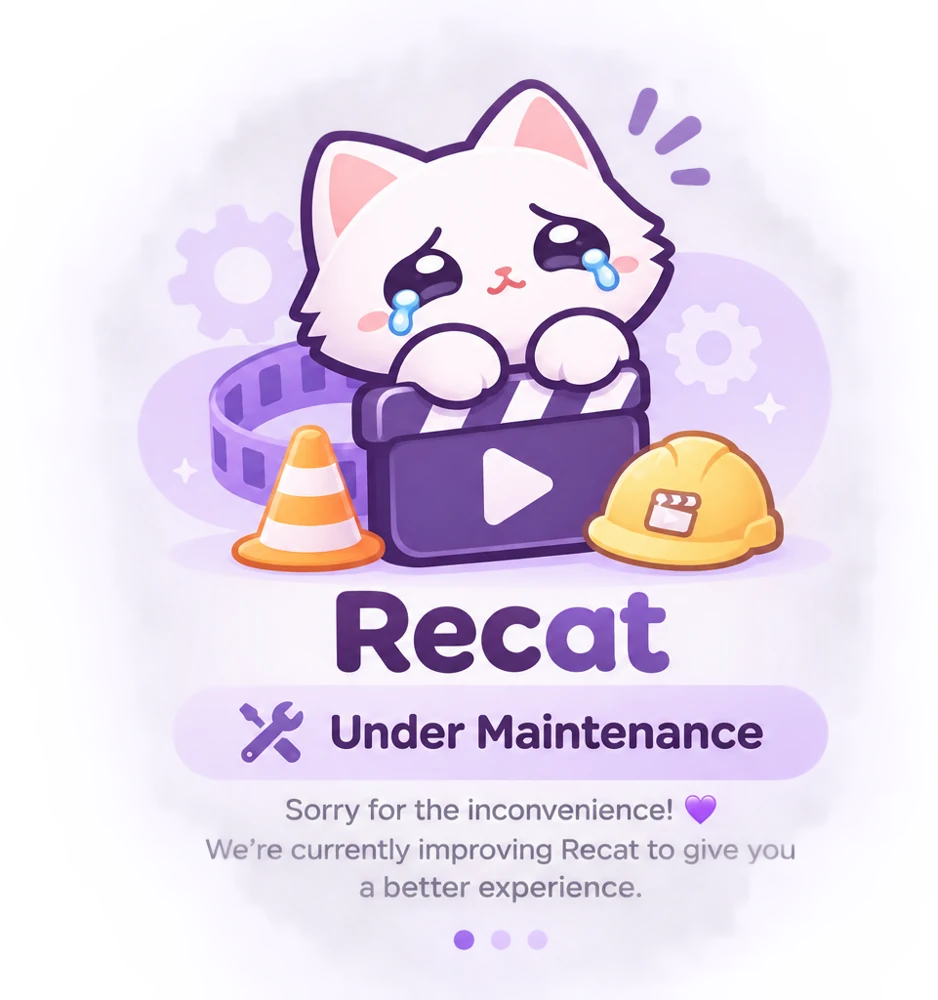
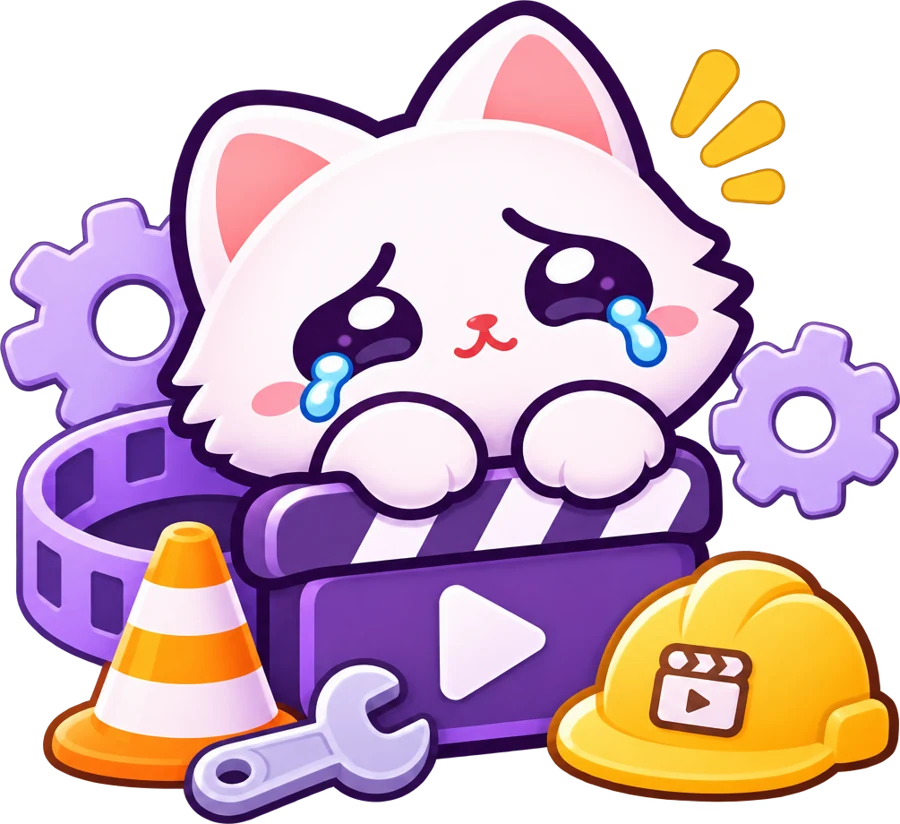
Maintenance card: chibi cat under-construction sticker with translated text

diff --git a/frontend/src/App.jsx b/frontend/src/App.jsx
@@ -730,10 +730,11 @@ function App() {
           onSelect={(v) => { setVoiceType(v.name); setVoiceGender(v.gender); }} onClose={() => setShowLibrary(false)} apiBase={API_BASE} />
       )}
       {view === 'create' && maintenance && (
-        <div className="max-w-3xl mx-auto rounded-[2rem] border border-white bg-white p-4 sm:p-8 text-center shadow-card animate-rise">
-          {/* the owner's picture (docs/Recat Under Maintenance.png, cropped): it already says "Recat · Under Maintenance" */}
-          <img src="/recat-maintenance.webp" alt={tr('Under Maintenance')} draggable={false} className="mx-auto w-full max-w-sm select-none animate-floaty" />
-          <p className="mt-2 text-sm sm:text-base font-medium text-ink-soft">{tr('Please try again later.')}</p>
+        <div className="max-w-3xl mx-auto rounded-[2rem] border border-white bg-white p-8 sm:p-12 text-center shadow-card animate-rise">
+          {/* the owner's sticker (docs/Chibi Cat Under Construction Sticker.png, cropped; no words in it, so ours are translated) */}
+          <img src="/recat-maintenance.webp" alt="" aria-hidden="true" draggable={false} className="mx-auto w-full max-w-[17rem] sm:max-w-xs select-none animate-floaty" />
+          <h1 className="mt-4 text-2xl sm:text-3xl font-bold text-ink">{tr('Under Maintenance')}</h1>
+          <p className="mt-2 text-sm sm:text-base text-ink-soft">{tr('Please try again later.')}</p>
         </div>
       )}
       <div className={view === 'create' && !maintenance ? '' : 'hidden'}>

diff --git a/CLAUDE.md b/CLAUDE.md
@@ -407,7 +407,7 @@ Owner: when an admin creates a user (generated password), they choose how many m
 Shown: Users list chip "until <date>" (amber in the last 7 days, red "expired <date>"), user app sidebar / account sheet "Valid until <date>" (red + days left in the last 7 days; `expires_at` in `/api/auth/login|me`). Test: `test_expiry.py`. Seen by screenshot (local, English). NOT built: a reminder to the user before the end, a list filter "expiring soon / expired", automatic renewal from a payment (top-ups buy minutes, not months), price per month, `manage.py` option for months. Burmese texts AI-written.
 
 ### Maintenance mode shows a notice on the Create page (2026-11-15, deployed)
-When the admin turns maintenance mode on (admin Settings), the user app's Create page shows a card with the floating cat, "Under Maintenance" and "Please try again later." instead of the banner + form (`App.jsx`, `maintenance`; Burmese AI-written). `GET /api/queue` now returns `maintenance`, and the app polls it every 20 s for every signed-in user (before: only on devices that can render), so the card appears / disappears within ~20 s without a reload. A video being made or a result just shown stays on screen; My videos, Top up and Usage keep working; the form's values are kept (hidden, not unmounted). Uploads were already refused by the API (503). **Picture (same day):** the owner's art `docs/Recat Under Maintenance.png` (1536x1024, soft transparent edge; it already carries the words "Recat · Under Maintenance · Sorry for the inconvenience..." in ENGLISH) -> `frontend/public/recat-maintenance.webp` (cropped to its content, faint dark edge pixels recoloured lavender so there is no grey smudge on the white card, 938x1000, ~220 KB). The card shows the picture + one translated line "Please try again later."; the words inside the picture are not translated (a Burmese version needs another picture). Seen by screenshot (phone width, local test server).
+When the admin turns maintenance mode on (admin Settings), the user app's Create page shows a card with the floating cat, "Under Maintenance" and "Please try again later." instead of the banner + form (`App.jsx`, `maintenance`; Burmese AI-written). `GET /api/queue` now returns `maintenance`, and the app polls it every 20 s for every signed-in user (before: only on devices that can render), so the card appears / disappears within ~20 s without a reload. A video being made or a result just shown stays on screen; My videos, Top up and Usage keep working; the form's values are kept (hidden, not unmounted). Uploads were already refused by the API (503). **Picture (same day, second version):** the owner's sticker `docs/Chibi Cat Under Construction Sticker.png` (crying cat on a clapperboard with cone, helmet, gears; transparent, no words) -> `frontend/public/recat-maintenance.webp` (cropped to the artwork, 900x824, ~110 KB), floating, with OUR translated heading "Under Maintenance" + "Please try again later." under it. (A first picture, `docs/Recat Under Maintenance.png`, had English words baked in: replaced, kept in docs.)
 
 ### Six videos at once on the Contabo server (owner's decision, 2026-11-15)
 `RECAP_WORKERS` and `QUEUE_WORKERS` 3 -> 6 in the server's `.env` (backup `/opt/movie-recap/env.bak-2026-11-15-workers`); `RENDER_WORKERS` stays 3, `MAX_ACTIVE_JOBS_PER_USER` 2. The number is OUR setting (chosen from the hardware: 8 shared vCPU, 24 GB, ~22 GB free), not a provider limit. Reason: "Render on my device" is the default, so most jobs use the server only for detection / translation / voice / sound (2-4.5 min each on 2026-11-15). **NOT load-tested**: six SERVER renders together would be 18 ffmpeg segment renders on 8 cores (slow, and long videos could pass `JOB_HARD_LIMIT_SECONDS` 720 and fail); High-quality videos share ~10 voice requests / minute per Gemini model. If videos start failing as too slow under load: lower it again, or cap server renders separately (not built). Only the last step (drawing the picture) is unlimited with device render; the server part still takes a slot.
@@ -690,3 +690,4 @@ Keys live in `backend/.env` (git-ignored). Admin: `python manage.py create-user 
 - 2026-11-15: live server runs 6 videos at once (was 3); not load-tested.
 - 2026-11-15: maintenance mode shows an Under Maintenance card with the cat on the Create page.
 - 2026-11-15: maintenance card uses the owner's Under Maintenance picture.
+- 2026-11-15: maintenance card uses the chibi cat under-construction sticker with translated text.
